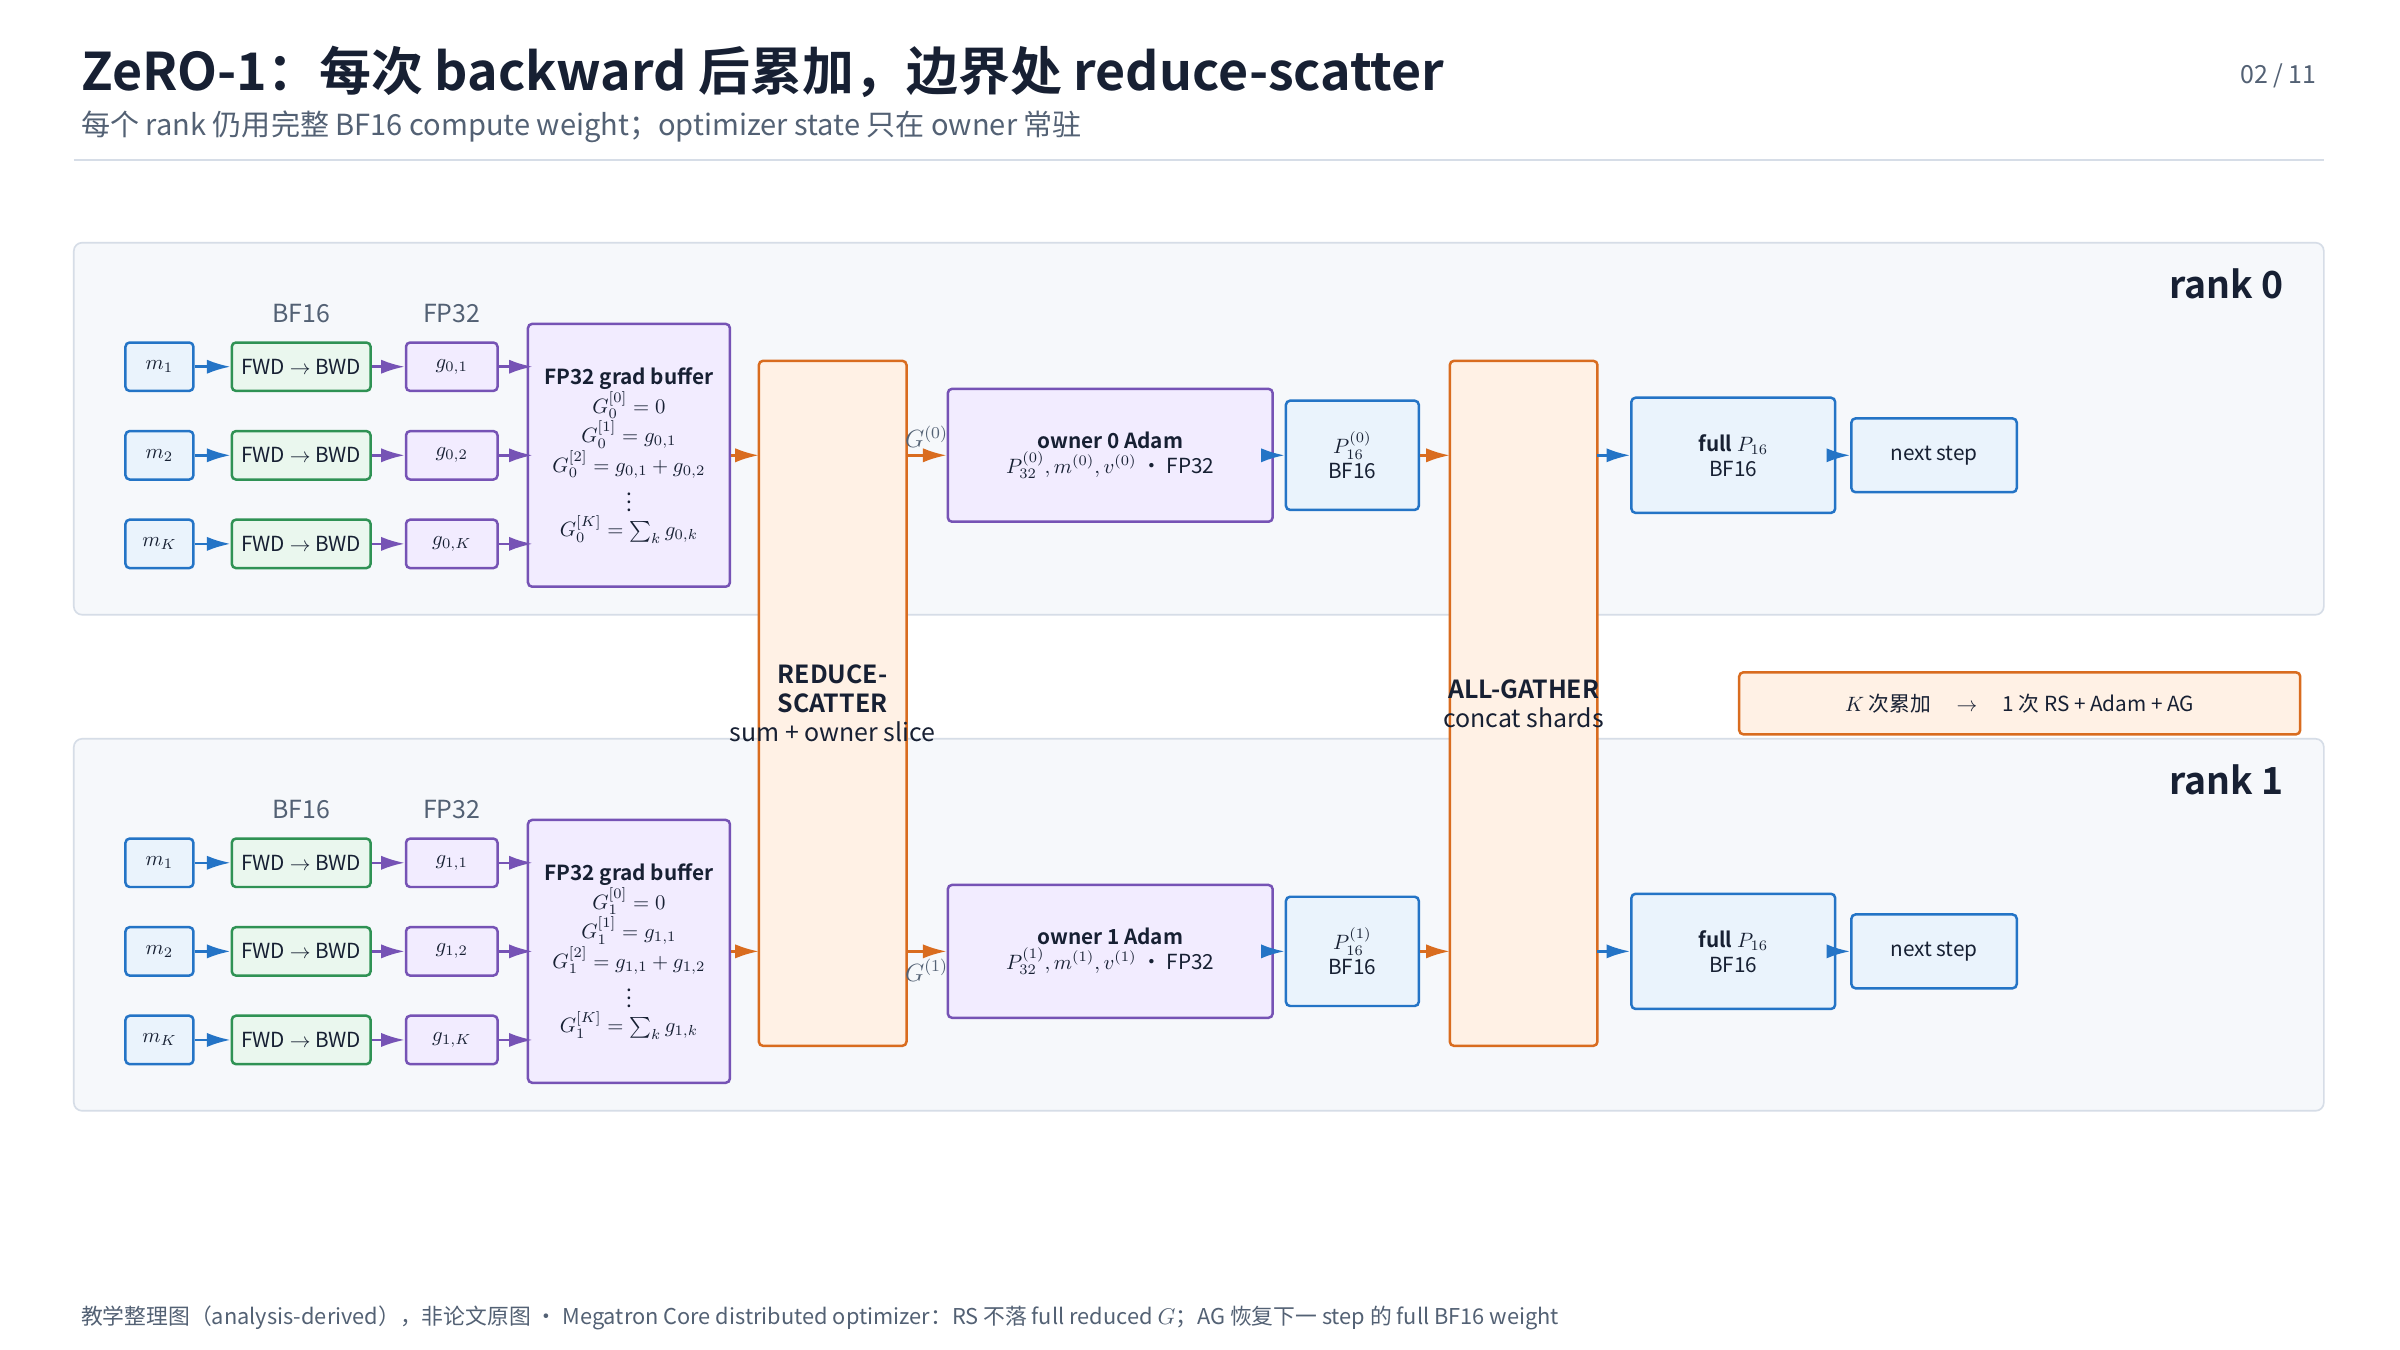
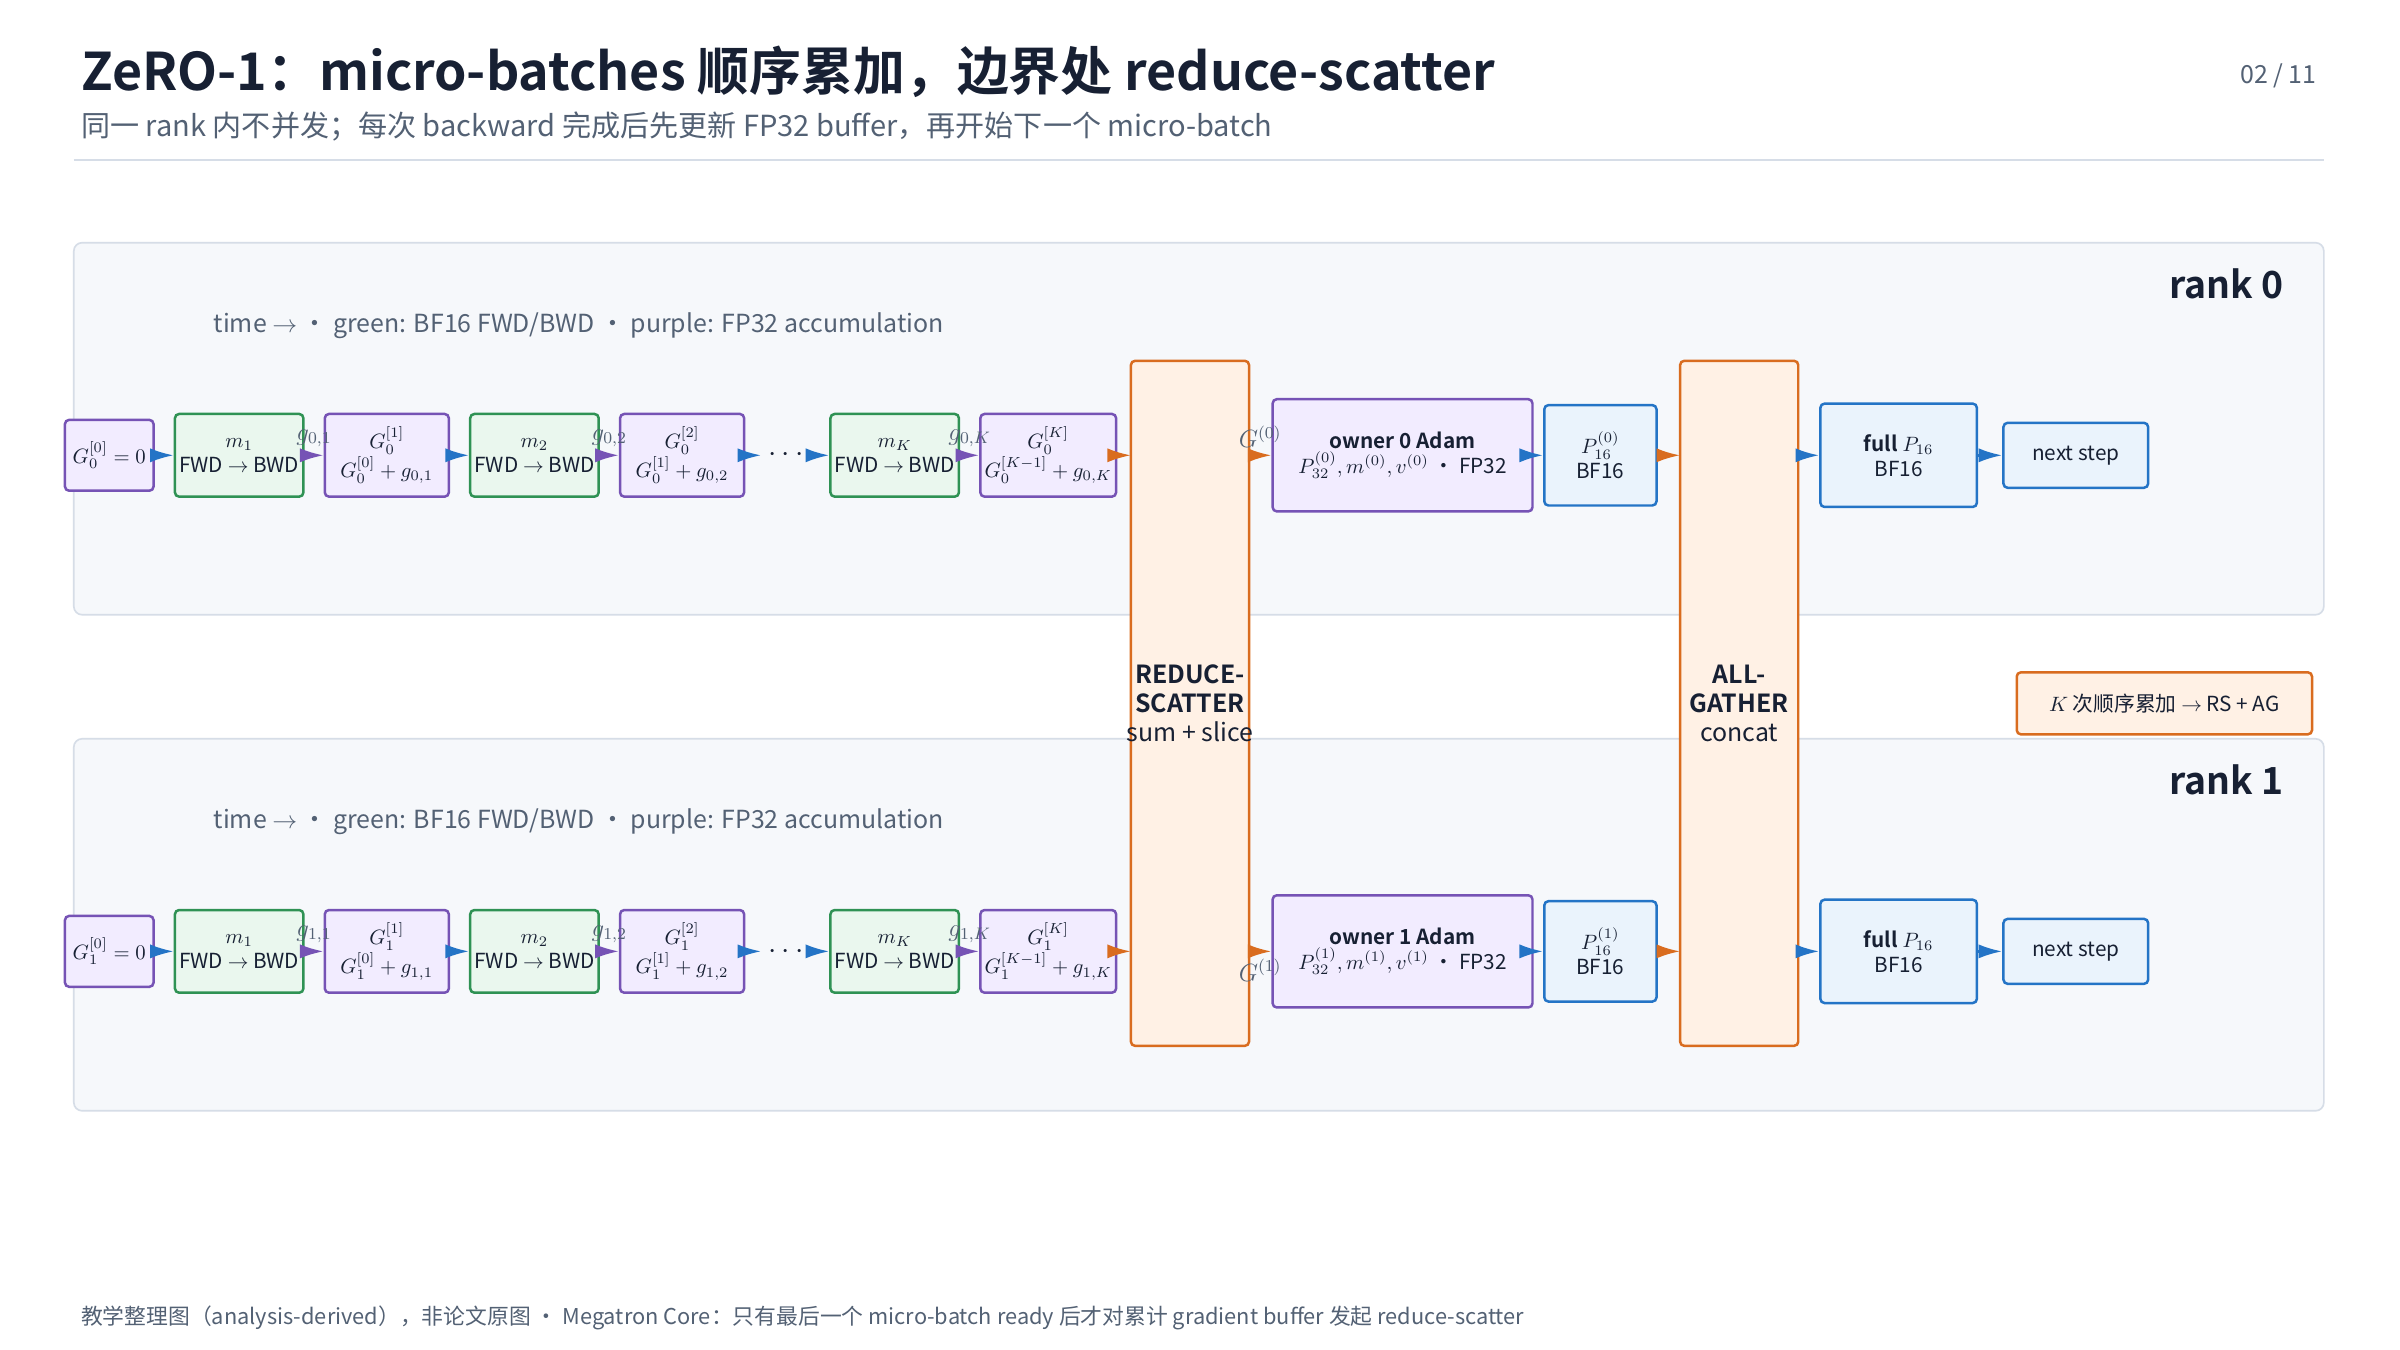
docs(parallelism): sequence micro-batch accumulation

diff --git a/01_ai_infra/parallelism/evidence/figure-inventory.md b/01_ai_infra/parallelism/evidence/figure-inventory.md
@@ -44,7 +44,7 @@ canonical: true
 
 以下 11 张 PNG 全部由 [并行切分方法体系](../surveys/parallel-partitioning-taxonomy.md) 独占，使用 TikZ 排版并以 `2400×1350` 输出。它们是 analysis-derived 教学整理图，不是原论文 Figure/Table，不计入论文视觉证据数量。TikZ 源码、PDF、过程渲染、contact sheet 与像素检查保留在 process workspace。
 
-2026-08-03 的 `1.6.0` 修订把普通 DP 与 ZeRO-1 的 $m_1$、$m_2$、$m_K$ 分别画成独立的 `FWD -> BWD -> g_{r,k}` 路径，并用 $G_r^{[0]}$、$G_r^{[1]}$、$G_r^{[2]}$、$G_r^{[K]}$ 显式展示每次 backward 后的累计状态；所有 dataflow 改为 lane 内水平箭头，移除把 updated weight 误接到 micro-batch 输入的回环。`1.5.0` 修订参考用户提供稿的 rank lane 与 feedback loop 视觉语法重绘普通 DP 和 ZeRO-1，补入 $K$ 个 micro-batches 的本地梯度累积，并依据 Megatron Core 固定 commit `b19b1f47cf7e289607f3be480c5f06c6ada25b16` 将 ZeRO-1 修正为 gradient reduce-scatter、owner-local update 和 parameter all-gather。`1.4.0` 修订把 DP/ZeRO 汇总图拆成普通 DP、ZeRO-1、ZeRO-2、ZeRO-3 四张 workflow，固定 BF16 compute 与 FP32 gradient/optimizer 的示例 dtype，显式展示 forward、backward、optimizer、collective payload、owner 和 buffer 生命周期。2026-08-02 的 `1.3.0` 修订把原 SVG 重绘为 TikZ，并将各图统一为“全局 tensor/state -> rank-local ownership 与具体 shape -> local operator -> collective/P2P 的发送者、接收者和合并规则 -> 恢复语义”。`1.2.0` 参考的 [Colossal-AI Parallelism](https://colossalai.org/docs/concepts/paradigms_of_parallelism) 仍只作为视觉组织参考；tensor 关系、成本注释和边界条件来自本领域 canonical Paper/Topic/Evidence 的综合分析，没有复制网页图片，也不把这些整理图作为外部证据。
+2026-08-03 的 `1.7.0` 修订用每 rank 单条时间线替换 `1.6.0` 的并列支路：`G_r^{[0]} -> m_1 FWD/BWD -> G_r^{[1]} -> m_2 FWD/BWD -> G_r^{[2]} -> ... -> m_K FWD/BWD -> G_r^{[K]}`，使“累计完成后才开始下一个 micro-batch”由箭头拓扑显式表达。`1.6.0` 曾显式列出 $m_1$、$m_2$、$m_K$ 及累计状态，但并列布局容易被误读为同一 rank 内并发，现已替换。`1.5.0` 修订依据 Megatron Core 固定 commit `b19b1f47cf7e289607f3be480c5f06c6ada25b16` 将 ZeRO-1 修正为 gradient reduce-scatter、owner-local update 和 parameter all-gather。`1.4.0` 修订把 DP/ZeRO 汇总图拆成普通 DP、ZeRO-1、ZeRO-2、ZeRO-3 四张 workflow。2026-08-02 的 `1.3.0` 修订把原 SVG 重绘为 TikZ。`1.2.0` 参考的 [Colossal-AI Parallelism](https://colossalai.org/docs/concepts/paradigms_of_parallelism) 只作为视觉组织参考；tensor 关系、成本注释和边界条件来自本领域 canonical Paper/Topic/Evidence 的综合分析。
 
 | Owner | Asset | 用途 | 分辨率 | 声明 | QA |
 |---|---|---|---|---|---|

diff --git a/01_ai_infra/parallelism/surveys/parallel-partitioning-taxonomy.md b/01_ai_infra/parallelism/surveys/parallel-partitioning-taxonomy.md
@@ -72,11 +72,11 @@ canonical: true
 
 ![普通 DP 混合精度训练 workflow 与 dataflow|1349](../assets/surveys/parallel-partitioning-taxonomy/dp-training-workflow.png)
 
-> 普通 DP 基线：每个 micro-batch 分别执行 forward/backward 并产生 $g_{r,k}$，随后立即写入同一个 FP32 buffer；buffer 状态依次从 $G_r^{[0]}=0$ 变为 $G_r^{[1]}$、$G_r^{[2]}$，直至 $G_r^{[K]}=\sum_k g_{r,k}$，之后才执行一次 all-reduce 和 Adam update。
+> 普通 DP 基线：同一 rank 内的 micro-batches 沿单条时间线顺序执行。$m_k$ 完成 forward/backward 并产生 $g_{r,k}$ 后，先把它写入 FP32 buffer，再开始 $m_{k+1}$；buffer 从 $G_r^{[0]}=0$ 依次变为 $G_r^{[1]}$、$G_r^{[2]}$，直至 $G_r^{[K]}=\sum_k g_{r,k}$，之后才执行一次 all-reduce 和 Adam update。
 
 ![ZeRO-1 训练 workflow 与 dataflow|1349](../assets/surveys/parallel-partitioning-taxonomy/zero1-training-workflow.png)
 
-> ZeRO-1：每个 micro-batch 的 backward 结束后，同样立即把 $g_{r,k}$ 加入完整 local FP32 buffer；第 $K$ 次累加完成后，Megatron Core 的 distributed optimizer 才直接 reduce-scatter 到 optimizer owner。owner 只更新自己的 FP32 master weight 与 Adam moments，最后 all-gather 更新后的 BF16 parameter shards。reduce-scatter 等价于 all-reduce 后取 local slice，但不必在每卡落地完整的已归约 gradient。对同样大小的 gradient，ring reduce-scatter 的每 rank payload 约为 $(p-1)q\Psi/p$，是 ring all-reduce 的一半；整步还需另计 parameter all-gather。
+> ZeRO-1：同一 rank 内也严格按 $m_1 \rightarrow m_2 \rightarrow \cdots \rightarrow m_K$ 执行；每次 backward 结束后，先把 $g_{r,k}$ 加入完整 local FP32 buffer，再启动下一个 micro-batch。第 $K$ 次累加完成后，Megatron Core 的 distributed optimizer 才直接 reduce-scatter 到 optimizer owner。owner 只更新自己的 FP32 master weight 与 Adam moments，最后 all-gather 更新后的 BF16 parameter shards。reduce-scatter 等价于 all-reduce 后取 local slice，但不必在每卡落地完整的已归约 gradient。对同样大小的 gradient，ring reduce-scatter 的每 rank payload 约为 $(p-1)q\Psi/p$，是 ring all-reduce 的一半；整步还需另计 parameter all-gather。
 
 ![ZeRO-2 训练 workflow 与 dataflow|1349](../assets/surveys/parallel-partitioning-taxonomy/zero2-training-workflow.png)
 
